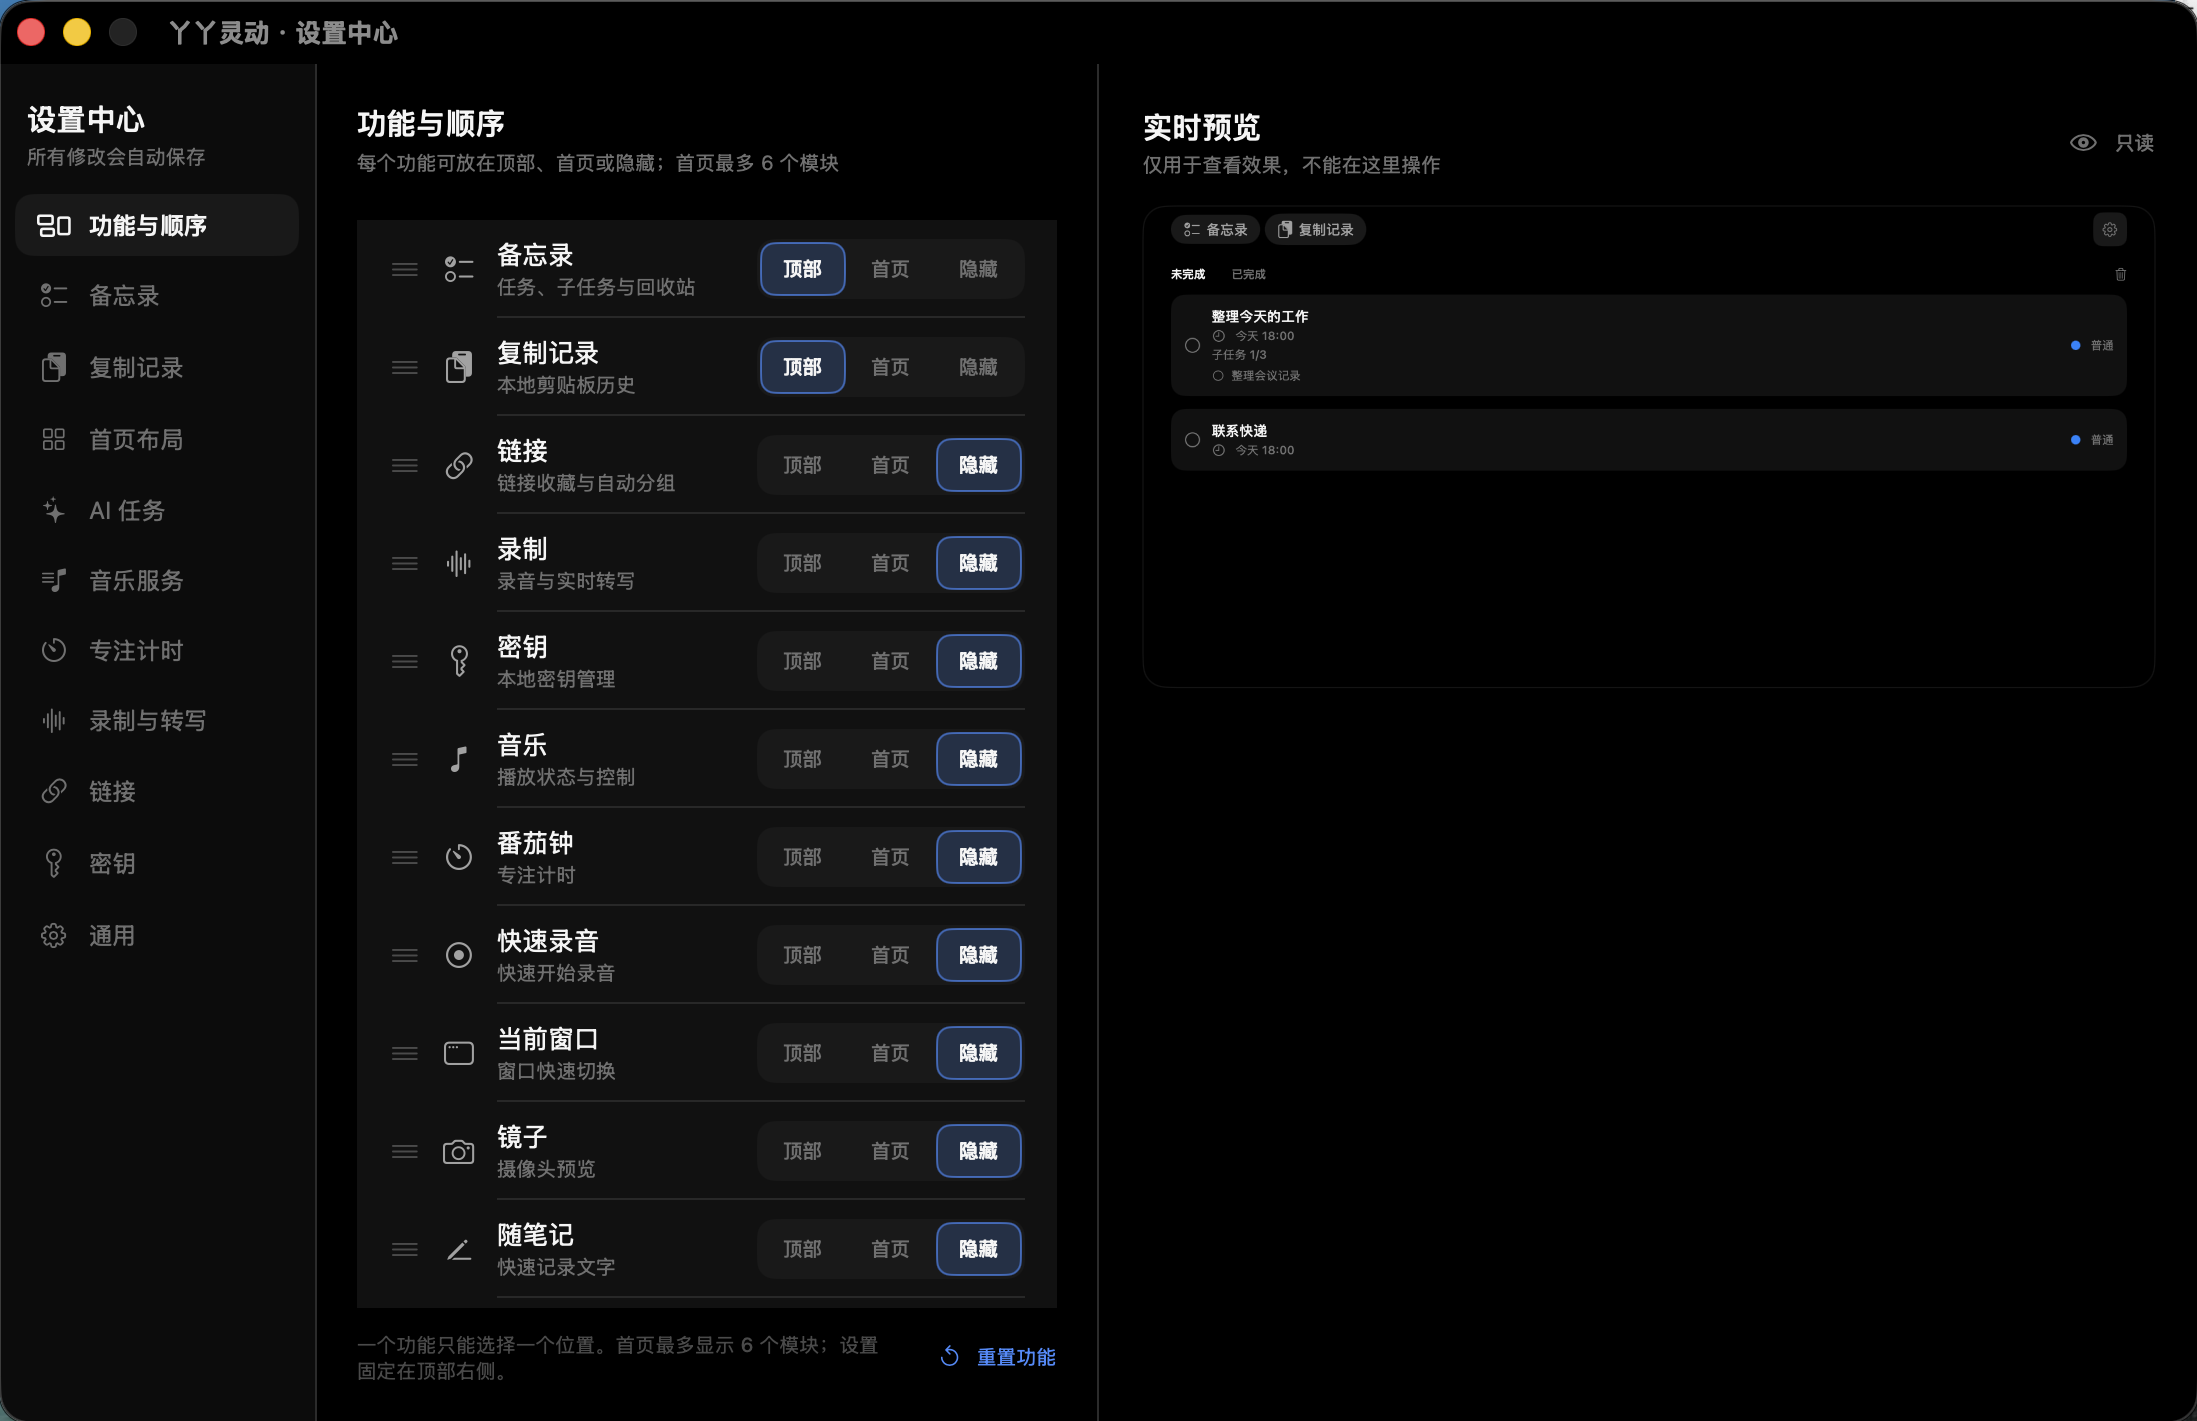
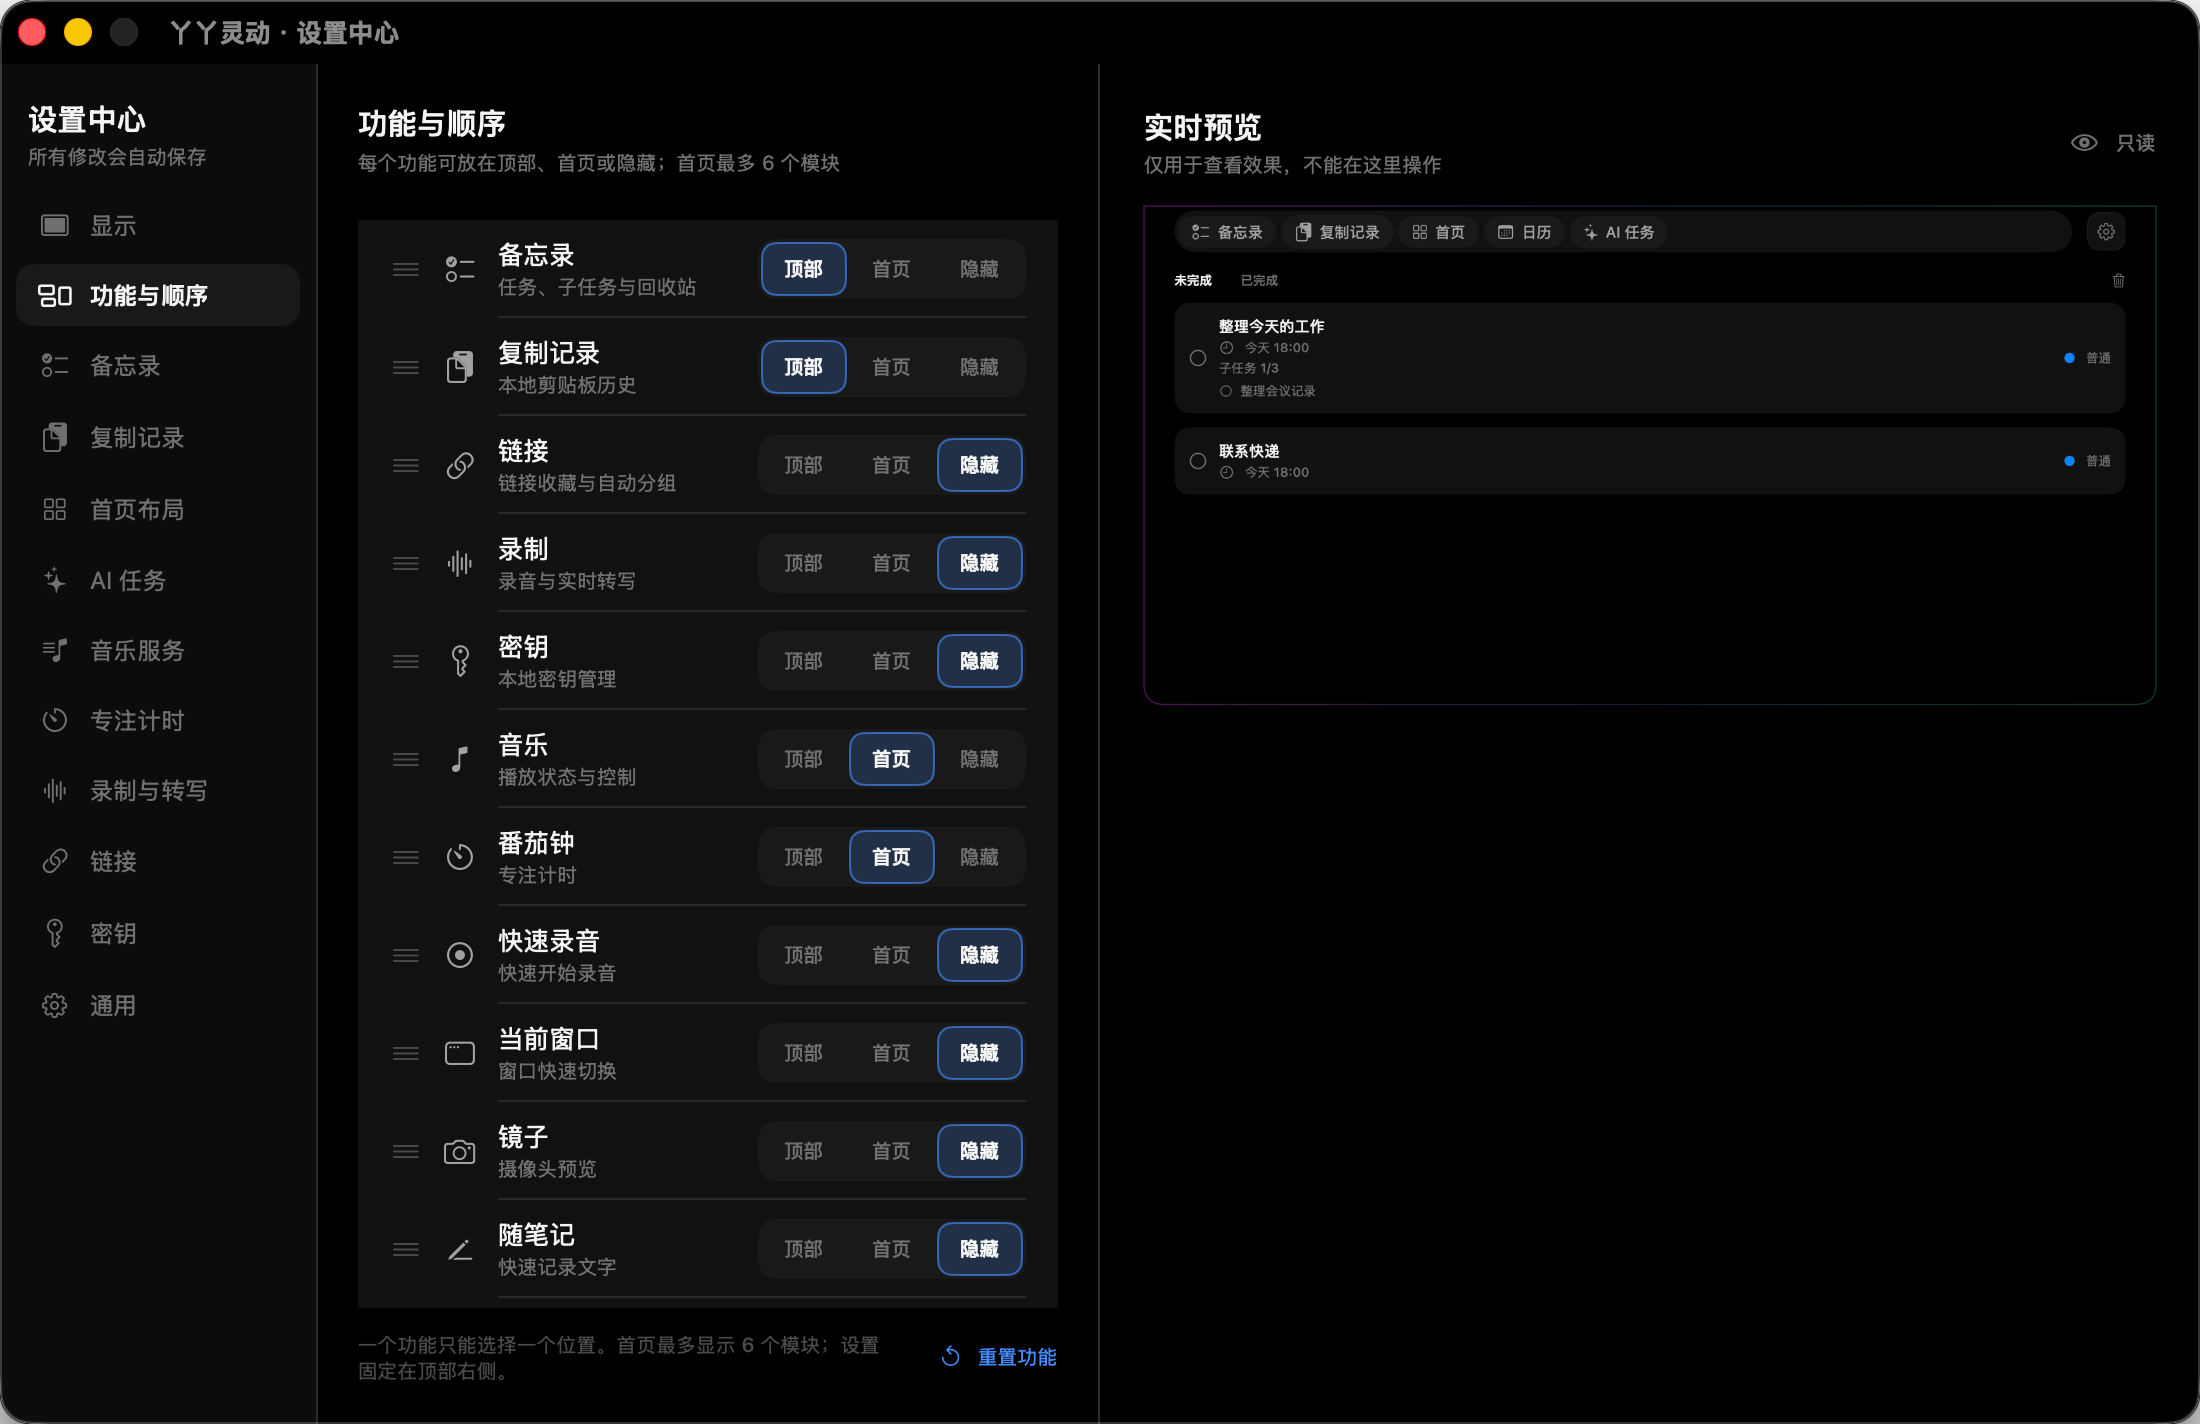
docs: 更新项目说明与界面截图

diff --git a/README.md b/README.md
@@ -1,39 +1,68 @@
+![丫丫灵动 Logo](assets/app-icon.png)
+
 # 丫丫灵动（IslandMemo）
 
-把 Mac 刘海变成一个随手可用的本地工作台。单击当前屏幕顶部中央区域，或使用自定义全局快捷键，即可展开面板；移开后会延时自动收起。
+把 Mac 刘海变成一个随手可用的本地工作台。单击屏幕顶部中央区域，或使用自定义全局快捷键，即可快速打开备忘录、剪贴板、日历、AI 任务和专注工具。
 
+![丫丫灵动首页工作台](assets/screenshots/home-workspace.png)
+
+## 核心亮点
+
+- **自由组合工作台**：功能可放在顶部 Tab、首页模块或隐藏，首页最多展示 6 个模块
+- **完整任务管理**：支持分类、子任务、优先级、截止时间、完成列表、提醒和回收站
+- **复制内容转备忘录**：保留原文快速创建任务，也可选择接入大模型提炼内容和识别时间
+- **本机 AI 任务状态**：查看 Codex 额度、运行状态与完成通知
+- **本地优先**：任务、剪贴板、链接和录音等数据默认保存在本机
 
 ## 界面预览
 
-### 可自由编排的功能入口
+### 备忘录
 
-每个功能都可以放在顶部 Tab、首页模块或隐藏；首页最多展示 6 个模块，并支持调整顺序与尺寸。
+按未完成和已完成查看任务，并通过分类、等级和截止时间快速整理。
+
+![丫丫灵动备忘录](assets/screenshots/memo-tasks.png)
+
+### AI 任务
+
+集中查看 Codex 额度、正在运行的任务和最近完成通知。
+
+![丫丫灵动 AI 任务](assets/screenshots/ai-tasks.png)
+
+### 设置中心
+
+每个功能都可以放在顶部、首页或隐藏；还可以调整首页布局、面板尺寸、音乐服务和其他功能设置。
 
 ![丫丫灵动设置中心](assets/screenshots/settings-center.png)
 
-## 主要功能
+## 功能一览
 
-- **备忘录**：任务、子任务、分类、优先级、截止时间、完成列表与回收站
-- **复制内容转备忘录**：从复制记录添加原文；可选接入模型提炼任务、识别截止时间，支持编辑后一次保存
-- **首页工作台**：按需要组合备忘录、时钟、日历、音乐、番茄钟、窗口、镜子等模块
-- **复制记录**：在本机保存最近的剪贴板文字与图片，支持数量和保留时长设置
-- **链接与常用指令**：收藏链接、自动分组，并快速复制常用提示词或命令
-- **录制与转写**：快速录音、管理录音记录，并可配置实时转写服务
+- **备忘录**：任务、子任务、分类、优先级、截止时间、系统提醒与回收站
+- **复制记录**：保存最近复制的文字和图片，并将文字直接转成备忘录
+- **首页工作台**：自由组合备忘录、时钟、日历、音乐、番茄钟、窗口、镜子等模块
+- **链接与常用指令**：收藏链接、自动分组，快速复制常用提示词或命令
+- **录制与转写**：快速录音、管理录音记录，可配置实时转写服务
 - **本地密钥**：通过 macOS 钥匙串保存敏感内容，列表仅展示名称
-- **音乐控制**：支持汽水音乐、Apple Music 与 Spotify，可选择首页默认播放器
-- **专注工具**：番茄钟、随笔记、时钟、公历月历、农历日期与传统黄历信息
+- **音乐控制**：支持汽水音乐、Apple Music 与 Spotify
+- **效率工具**：番茄钟、随笔记、时钟、公历月历、农历与传统黄历信息
 - **窗口与镜子**：快速切换当前窗口，或在面板中打开摄像头预览
-- **AI 任务**：查看 Codex 额度、重置时间和最近任务状态，并接收本机 Agent 完成提醒
-- **多显示器支持**：可在当前屏幕或全屏空间中唤出面板
+- **AI 任务**：查看 Codex 额度、最近任务状态和完成通知
+- **多显示器支持**：可在当前显示器或全屏空间中唤出面板
 
-## 快捷键与打开方式
+## 打开方式与快捷键
 
-- 单击当前屏幕顶部中央区域打开面板
+- 单击当前屏幕顶部中央区域
 - 在菜单栏选择“打开丫丫灵动”
-- 在菜单栏选择“修改快捷键…”，自定义全局唤起快捷键
-- 输入框支持 macOS 标准编辑快捷键：⌘V 粘贴、⌘C 复制、⌘X 剪切、⌘A 全选、⌘Z 撤销和 ⇧⌘Z 重做；密钥输入框保留系统的安全限制
+- 在菜单栏选择“修改快捷键…”，设置自己的全局唤起快捷键
 
-应用不再固定使用某一组组合键；请按自己的习惯设置，若组合键已被其他应用占用，系统会提示更换。
+输入框支持 macOS 标准编辑快捷键：`⌘V` 粘贴、`⌘C` 复制、`⌘X` 剪切、`⌘A` 全选、`⌘Z` 撤销和 `⇧⌘Z` 重做。
+
+## 复制记录生成备忘录
+
+复制记录中的文字可以直接添加为任务。点击“添加备忘录”后，会先打开编辑窗口并保留完整原文、换行和空格；确认内容、截止时间与等级后，点击“添加任务”即可保存。
+
+如需使用大模型提炼，可前往“设置中心 → 复制记录”，启用“使用大模型提炼”并填写模型名称、Chat Completions 接口地址和 API Key。打开编辑窗口不会自动调用模型，只有主动点击“推理”时才会发送当前草稿；推理结果只会回填编辑框，不会自动保存。
+
+模型单次最多处理 12000 字。关闭模型开关或未完成配置时，应用会继续按原文添加，不会推测截止时间。图片暂不支持转成备忘录。
 
 ## 系统要求
 
@@ -41,22 +70,7 @@
 - Swift 6.0 工具链（仅从源码构建时需要）
 - 查看 Codex 状态时，需要已安装并登录 ChatGPT/Codex
 
-部分功能首次使用时会请求对应的系统权限：镜子需要摄像头权限，录音需要麦克风权限，汽水音乐快捷控制需要辅助功能权限。
-
-## 复制记录生成备忘录
-
-1. 默认无需模型：从复制记录点击「添加备忘录」，先打开包含完整原文的弹窗，保留换行与空格。点击「添加任务」直接保存并关闭，不再二次确认；不调用模型时不会推测截止时间。
-2. 在「设置中心 → 复制记录」可选开启「使用大模型提炼」，填写模型名称、完整 Chat Completions 接口地址（以 `/chat/completions` 结尾）和 API Key，点击「保存模型配置」。支持 HTTPS 服务及本机 HTTP 服务。关闭模型开关或尚未完成配置时，继续按原文添加。
-
-任务编辑窗口复用主面板的结束时间日历与等级选择器，底部「取消」与「添加任务」按钮固定显示；较长内容在上方独立滚动。保存失败时保留草稿，可重试且不会重复创建任务。
-
-复制记录列表与首页卡片均支持文字添加，无需辅助功能权限；图片暂不支持。已移除全局划词按钮、选区监听和划词权限设置。
-
-大模型配置位于「设置中心 → 复制记录」。启用并完整配置模型后，编辑弹窗显示「推理」按钮。打开弹窗不会调用模型；只有点击「推理」才处理当前编辑内容，结果回填原编辑框，不自动保存。无时间时不补日期；含糊时间、多项任务、已过期时间等提示直接显示在草稿内，不额外弹窗确认。相对时间按点击推理时的本机时间与时区解释。模型单次最多处理 12000 字，此限制不影响原文添加。
-
-只有启用模型且完成配置后，点击「推理」才会把当前草稿内容发送给该模型，不会批量发送剪贴板历史。模型 API Key 保存在本机配置文件 `~/Library/Application Support/IslandMemo/memo-ai-credentials.json` 中，权限为 `0600`（仅当前用户可读写）。模型配置只读写此文件，不再读取、迁移或删除钥匙串条目。旧版仅存于钥匙串的模型密钥需重新粘贴并保存一次，已保存到文件的密钥可继续使用。关闭窗口会取消未完成的推理并放弃未保存的草稿；在设置里停用模型或点击「取消推理」会保留当前草稿。推理失败时仍可直接添加当前内容。保存过程中等待本机写入结果，成功后自动关闭窗口。
-
-开发验证：运行 `scripts/test-memo-ai.sh`，使用本机模拟模型和内存任务库验证无模型原文添加、换行与长文本、时间校验、显式推理、取消、一次保存、防重复和存储失败重试，不使用真实密钥或个人任务数据。
+镜子、录音和汽水音乐快捷控制首次使用时，可能分别请求摄像头、麦克风或辅助功能权限。
 
 ## 直接下载安装
 
@@ -66,32 +80,28 @@
 
 ## 从源码运行
 
-克隆项目后，在项目目录运行：
-
 ```bash
+git clone https://github.com/lizilong0326/IslandMemo.git
+cd IslandMemo
 swift run IslandMemo
 ```
 
-启动后，菜单栏会出现应用图标。单击屏幕顶部中央区域，或使用你设置的全局快捷键，即可打开面板。
-
 ## 打包应用
-
-项目附带本地打包脚本：
 
 ```bash
 chmod +x scripts/build-app.sh
 ./scripts/build-app.sh
 ```
 
-生成的应用位于项目上级的 `outputs` 目录。脚本使用临时签名，适合本地测试；对外分发时建议使用 Apple Developer 证书签名并完成公证。
+生成的应用位于项目上级的 `outputs` 目录。脚本使用临时签名，适合本地测试；正式分发建议使用 Apple Developer 证书签名并完成公证。
 
 ## 数据与隐私
 
 - 任务、设置、链接、录音索引和剪贴板历史默认只保存在本机
-- 复制转备忘录的模型 API Key 存为本机明文 JSON，位于应用数据目录，不随安装包分发；`.gitignore` 同时忽略 `memo-ai-credentials.json`、其备份及临时文件，避免复制到项目后误提交
-- 独立的「密钥」管理模块仍使用 macOS 钥匙串
-- Codex 状态模块只通过本机 `codex app-server` 请求额度和最近任务摘要，并只读查询 `~/.codex/thread_history_*.sqlite` 中的任务状态字段
-- Codex 状态模块不会读取聊天正文、`auth.json` 或浏览器 Cookie；最后一次成功读取的额度与任务摘要会缓存在 IslandMemo 的 `UserDefaults` 中
+- 复制转备忘录的模型 API Key 位于 `~/Library/Application Support/IslandMemo/memo-ai-credentials.json`，文件权限为 `0600`
+- 独立的“密钥”管理模块使用 macOS 钥匙串
+- 只有启用并配置模型后，主动点击“推理”才会发送当前草稿；不会批量发送剪贴板历史
+- Codex 状态模块不会读取聊天正文、`auth.json` 或浏览器 Cookie
 
 任务数据位于：
 
@@ -100,6 +110,14 @@ chmod +x scripts/build-app.sh
 ```
 
 卸载应用不会自动删除本地数据。
+
+## 开发验证
+
+```bash
+scripts/test-memo-ai.sh
+```
+
+测试使用本机模拟模型和内存任务库，不需要真实 API Key，也不会读取个人任务数据。
 
 ## 项目结构
 
@@ -114,8 +132,6 @@ IslandMemo/
 ├── THIRD_PARTY_NOTICES.md
 └── scripts/build-app.sh
 ```
-
-数据访问统一通过 `TaskRepository`。如果以后需要接入云端同步，可以实现远程仓库的 `load` 和 `save`，再在 `AppDelegate` 中替换注入，界面和任务逻辑无需改动。
 
 ## 参与开发
 
